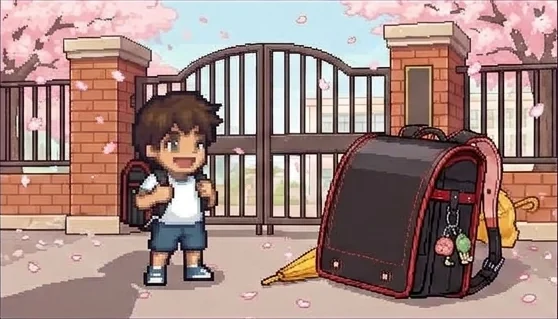
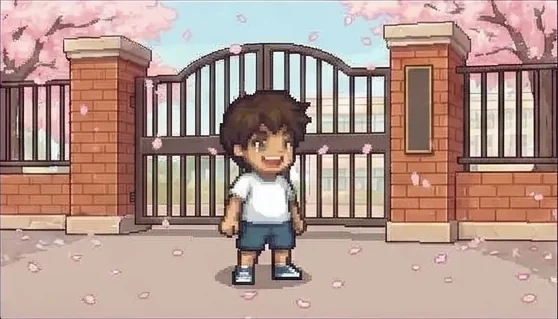
v0.22.2 초등학교 입학식 장면 새 그림으로 교체
Claude-Session: https://claude.ai/code/session_01VYXQzVYR4chXqJ2j5munDD

diff --git a/src/components/TitleScreen.tsx b/src/components/TitleScreen.tsx
@@ -115,7 +115,7 @@ export function TitleScreen({ onStart, onOpening }: { onStart: () => void; onOpe
               🏅 업적 ({achCount}/{ACHIEVEMENTS.length})
             </PixelButton>
           </div>
-          <p className="mt-1 text-[10px] font-bold text-ink/60">v0.22.1 · 집 형편별 방</p>
+          <p className="mt-1 text-[10px] font-bold text-ink/60">v0.22.2 · 입학 사진</p>
         </div>
       )}
       {settings && <SettingsModal onClose={() => setSettings(false)} onOpening={onOpening} />}

diff --git a/scripts/build-event-scenes.py b/scripts/build-event-scenes.py
@@ -49,4 +49,23 @@ for n, chunk in enumerate(chunks, 1):
             crop = crop.resize((W, round(crop.height * W / crop.width)), Image.LANCZOS)
         crop.save(f'{OUT}/{gid}_{GENDER}.webp', quality=86, method=6)
         done += 1
+# 다시 받은 장면: assets-src/event-overrides/sheet-*.webp 의 지정 칸으로 덮어쓰기
+OVERRIDES = {
+    # 파일: [(칸 번호 0~3, 장면 ID), ...]  칸 번호: 0 왼위 1 오른위 2 왼아래 3 오른아래
+    'SON': {'assets-src/event-overrides/sheet-cs-son.webp': [(0, 'CS_SCHOOL')]},
+    'DAUGHTER': {'assets-src/event-overrides/sheet-cs-daughter.webp': [(0, 'CS_SCHOOL')]},
+}
+for path, picks in OVERRIDES.get(GENDER, {}).items():
+    if not os.path.exists(path):
+        continue
+    img = np.asarray(Image.open(path).convert('RGB')).astype(np.int32)
+    h, w = img.shape[:2]
+    for q, gid in picks:
+        box = cut(img, (q // 2) * h // 2, (q // 2 + 1) * h // 2, (q % 2) * w // 2, (q % 2 + 1) * w // 2)
+        if not box:
+            print('  패널을 못 찾음:', path, q)
+            continue
+        crop = Image.fromarray(img[box[1]:box[3], box[0]:box[2]].astype(np.uint8))
+        crop.save(f'{OUT}/{gid}_{GENDER}.webp', quality=86, method=6)
+        print(f'  교체: {gid}_{GENDER} ← {path} #{q} {crop.size}')
 print(f'{done} scenes → {OUT} ({GENDER})')

diff --git a/CHANGELOG.md b/CHANGELOG.md
@@ -1,5 +1,9 @@
 # Changelog
 
+## v0.22.2 — 입학 사진 교체
+- 초등학교 입학식 장면(CS_SCHOOL)을 새 그림으로 교체 (아들·딸, 벚꽃 교문 앞)
+- `assets-src/event-overrides/`에 다시 받은 장면 시트를 두면 지정한 칸으로 덮어쓰도록 build-event-scenes.py 보강
+
 ## v0.22.1 — 집 형편별 방 확 다르게
 - 상류층: 에메랄드 다마스크 벽지·흰 천장 몰딩·호두나무 징두리, 벽난로(불꽃)+초상화+벽 촛대, 붙박이 책장, 도시 전망 프렌치 창 2개+버건디 드레이프, 헤링본 마루+페르시안 카펫, 크리스털 샹들리에, 밤하늘색 배경
 - 하류층: 민트 도배지 아파트, 알루미늄 샷시 창(앞 동 아파트가 보임)+롤 블라인드, 벽걸이 에어컨·벽시계·달력, 회색 방화문+가방 걸이, 노란 장판+분홍 원형 러그, 흰 PVC 벽 테두리, 회청색 배경
